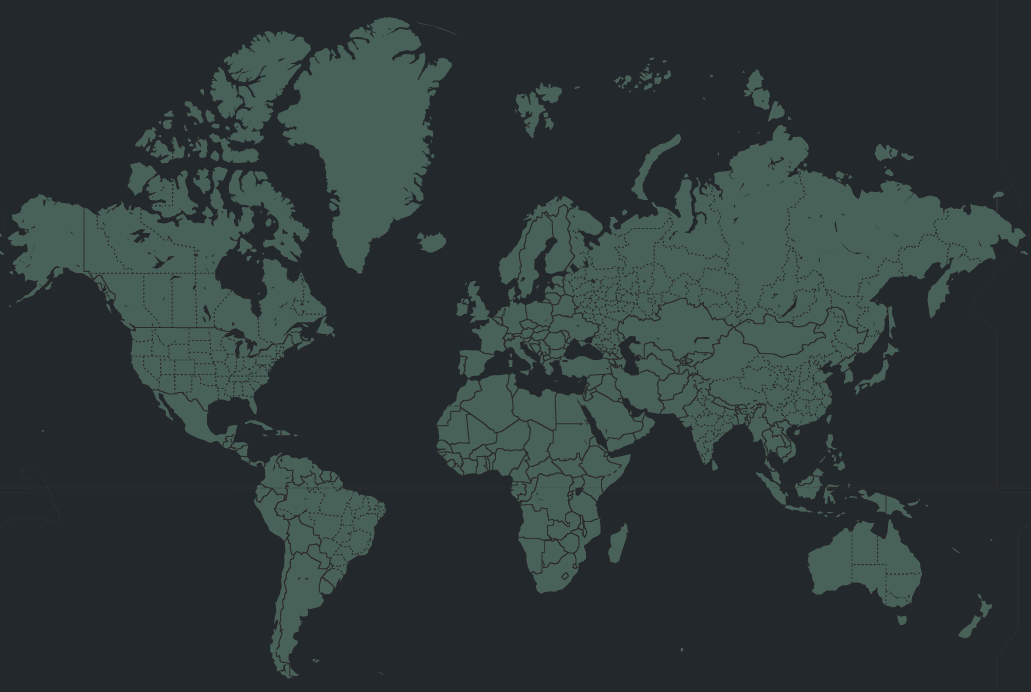
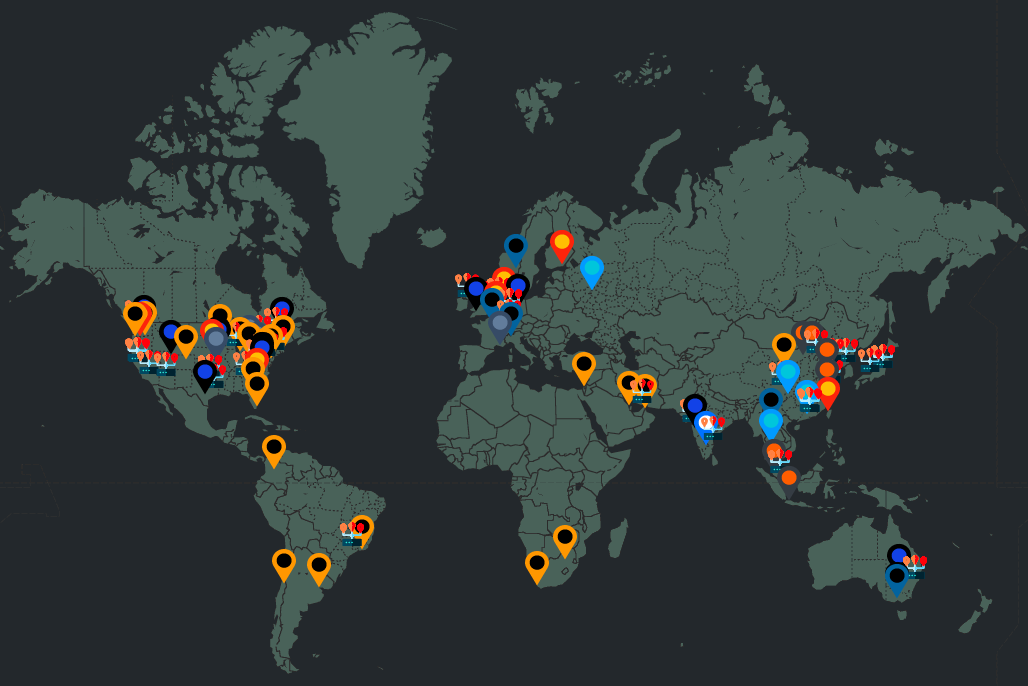
new map

diff --git a/_pages/about.md b/_pages/about.md
@@ -6,7 +6,7 @@ date: 2016-03-23T11:48:41-04:00
 header:
   overlay_color: "#73857f"
   overlay_filter: "0.5"
-  overlay_image: 
+  overlay_image: "assets/map.png"
   actions:
     - label: "Learn More"
       url: "/terms/"
